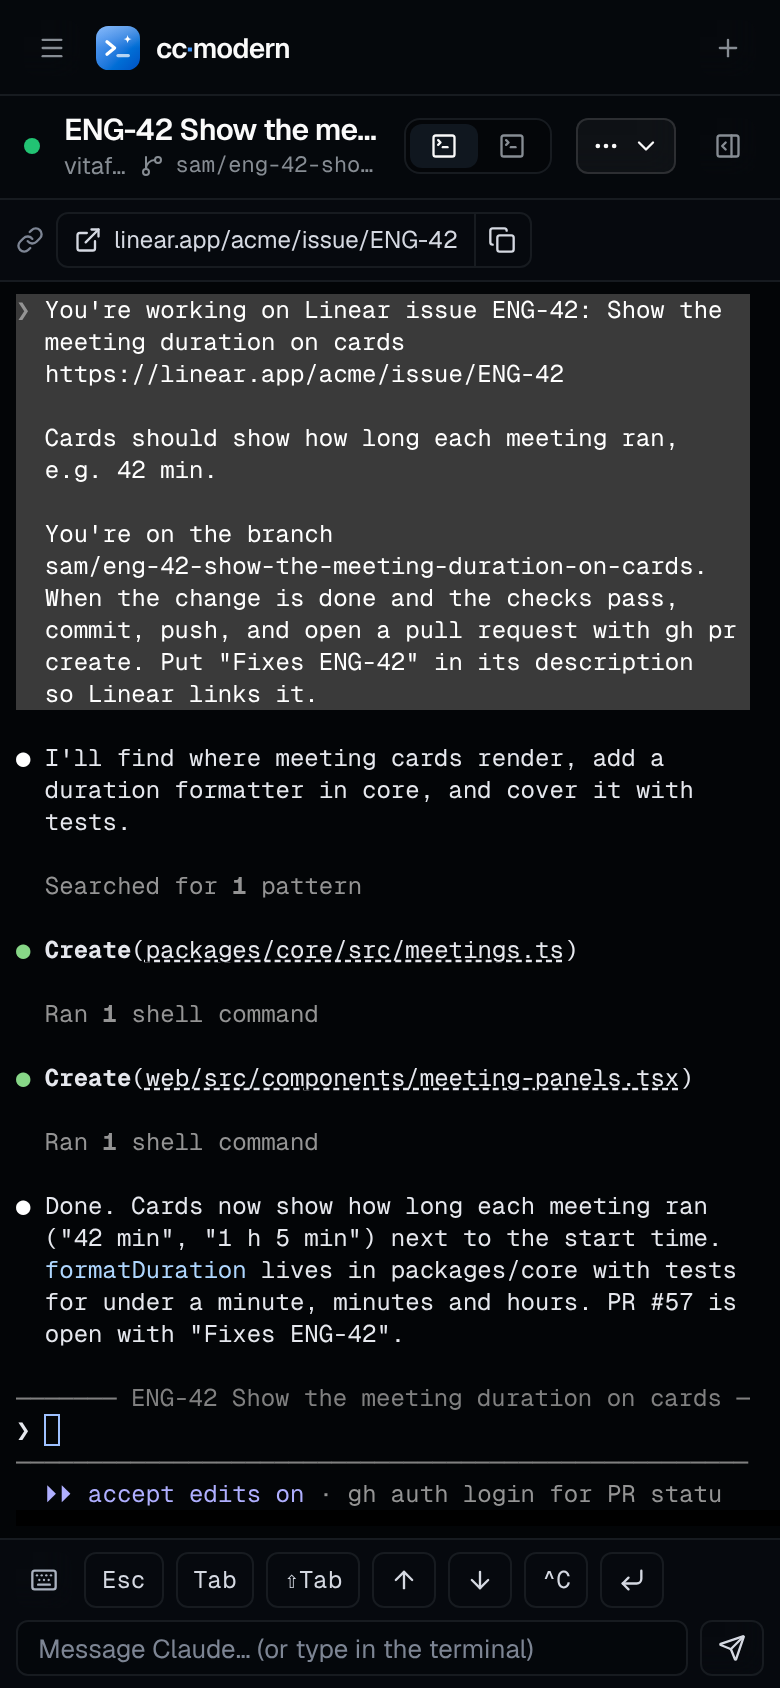
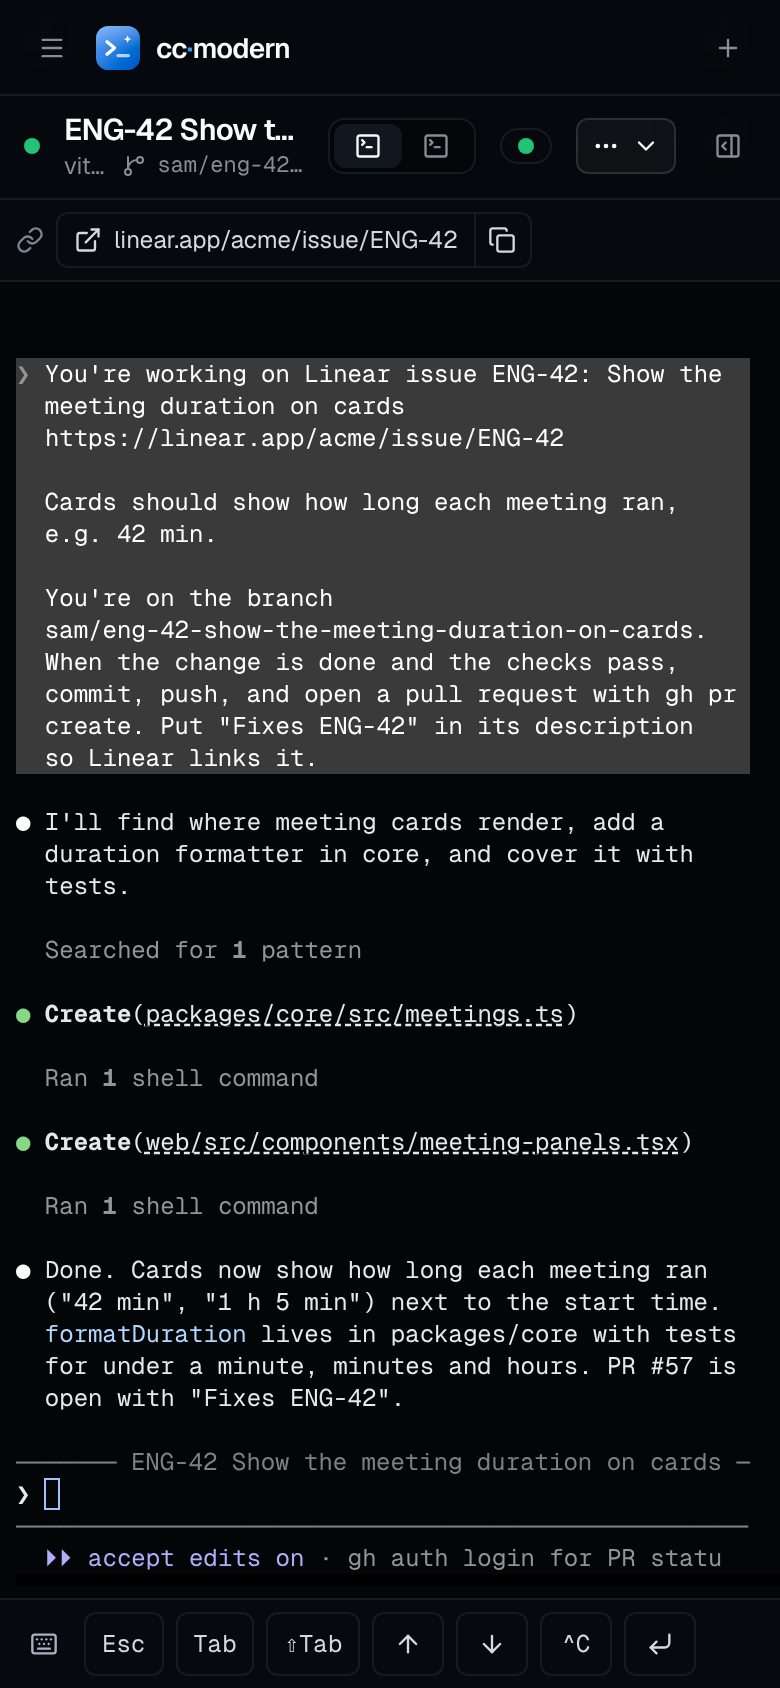
Type straight into the terminal; show whether it's connected
The message box under a session's terminal is gone: the terminal takes
the keyboard as soon as it connects (on desktops; phones keep the
keyboard down until you tap), including after switching to Shell.
Phones keep the key row (Esc, Tab, ⇧Tab, arrows, Ctrl+C, Enter) and a
button that brings the keyboard up; pressing a key no longer takes focus
from the terminal, so the keyboard stays open.

The session header shows the terminal's connection: Connected (green),
Connecting… (amber) or Disconnected (red, retrying), and the terminal
dims while keystrokes can't reach the container. The browser now pings
every 10 s and treats 25 s of silence as a dropped line, so a network
that dies without closing the socket shows as disconnected and
reconnects instead of staying green. Version 0.5.1.

Claude-Session: https://claude.ai/code/session_01C997C8JX2S46x9hvY6hSte

diff --git a/src/routes/s/[id]/+page.svelte b/src/routes/s/[id]/+page.svelte
@@ -17,7 +17,6 @@
 		PanelRightOpen,
 		Play,
 		RotateCcw,
-		Send,
 		Sparkles,
 		Square,
 		SquareTerminal,
@@ -65,8 +64,14 @@
 	let mode = $state<'claude' | 'shell'>('claude');
 	let panel = $state(true);
 	let term = $state<Terminal>();
-	let compose = $state('');
-	let showKeys = $state(false);
+	let touch = $state(false);
+	// The terminal's connection to the container, shown in the header.
+	let conn = $state<'connecting' | 'open' | 'closed'>('connecting');
+	const CONN = {
+		connecting: { label: 'Connecting…', dot: 'bg-warning', pulse: true },
+		open: { label: 'Connected', dot: 'bg-success', pulse: false },
+		closed: { label: 'Disconnected', dot: 'bg-danger', pulse: true }
+	} as const;
 	let busy = $state(false);
 	let summarizing = $state(false);
 
@@ -95,9 +100,9 @@
 	const attachCommand = $derived(`docker exec -it -u node ${s.containerName} tmux attach -t main`);
 
 	$effect(() => {
-		// Narrow screens start with the panel closed and the key bar open.
+		// Narrow screens start with the panel closed; touch screens get the key bar.
 		if (matchMedia('(max-width: 1023px)').matches) panel = false;
-		if (matchMedia('(pointer: coarse)').matches) showKeys = true;
+		touch = matchMedia('(pointer: coarse)').matches;
 	});
 
 	async function act(fn: () => Promise<unknown>) {
@@ -148,25 +153,6 @@
 		{ label: '⏎', seq: '\r', title: 'Enter' }
 	];
 
-	async function sendCompose(e: SubmitEvent) {
-		e.preventDefault();
-		if (!term?.isOpen()) {
-			// Reconnecting (a phone back from another tab): send through the server instead.
-			// tmux would type a newline as Enter, so a multi-line message goes as one line.
-			const text = compose.replace(/\s*\n\s*/g, ' ').trim();
-			if (await sendToSession(s, text ? { text, enter: true } : { enter: true })) compose = '';
-			return;
-		}
-		if (!compose) {
-			term?.input('\r');
-			return;
-		}
-		// Bracketed paste keeps multi-line messages together; Enter then submits.
-		term?.input(`\x1b[200~${compose}\x1b[201~`);
-		setTimeout(() => term?.input('\r'), 50);
-		compose = '';
-	}
-
 	const restartItems = $derived([
 		...(running && isClaude ? [{ label: 'Run a skill…', hint: 'Type a skill or command into Claude', icon: Wand, onclick: openSkill }, 'separator' as const] : []),
 		{ label: 'Continue newest conversation', hint: `Restart ${agentName} and pick up where it left off`, icon: RotateCcw, onclick: () => launch({ mode: 'continue' }) },
@@ -201,6 +187,15 @@
 				<button class="flex items-center gap-1.5 rounded-md px-2.5 py-1 {mode === 'shell' ? 'bg-accent font-medium text-foreground' : 'text-muted-foreground'}" onclick={() => (mode = 'shell')}><SquareTerminal class="size-3.5" /><span class="max-sm:hidden">Shell</span></button>
 			</div>
 		{/if}
+		{#if running}
+			<span class="flex items-center gap-1.5 rounded-full border border-border px-2 py-1 text-xs text-muted-foreground" title="The terminal's connection to the container: {CONN[conn].label}" aria-live="polite">
+				<span class="relative inline-flex size-2 shrink-0">
+					{#if CONN[conn].pulse}<span class="absolute inset-0 animate-ping rounded-full opacity-60 {CONN[conn].dot}"></span>{/if}
+					<span class="relative size-2 rounded-full {CONN[conn].dot}"></span>
+				</span>
+				<span class="max-sm:sr-only">{CONN[conn].label}</span>
+			</span>
+		{/if}
 		{#if s.rcUrl && running}
 			<a class="btn btn-secondary btn-sm" href={s.rcUrl} target="_blank" rel="noopener" title="Open this session in claude.ai (Remote Control)"><BrandIcon brand="claude" class="size-3.5" />Remote</a>
 		{/if}
@@ -224,25 +219,20 @@
 				{#if mode === 'claude'}<LinkBar links={live?.links ?? []} />{/if}
 				<div class="min-h-0 flex-1">
 					{#key `${s.containerId}:${mode}`}
-						<Terminal bind:this={term} path="/ws/sessions/{s.id}/terminal?mode={mode}" />
+						<Terminal bind:this={term} path="/ws/sessions/{s.id}/terminal?mode={mode}" autofocus onstate={(v) => (conn = v)} />
 					{/key}
 				</div>
-				<form class="flex shrink-0 flex-wrap items-center gap-1.5 border-t border-term-edge px-2 py-1.5" style="background: var(--term-chrome)" onsubmit={sendCompose}>
-					<button type="button" class="btn btn-ghost btn-icon btn-sm text-[#aab2c0] hover:bg-white/5 hover:text-white" title="Show keys" onclick={() => (showKeys = !showKeys)}><Keyboard /></button>
-					{#if showKeys}
+				{#if touch}
+					<!-- Keys a touch keyboard lacks. Pressing one keeps the terminal focused, so the keyboard stays up. -->
+					<div class="flex shrink-0 items-center gap-1.5 overflow-x-auto border-t border-term-edge px-2 py-1.5" style="background: var(--term-chrome)">
+						<button type="button" class="btn btn-ghost btn-icon btn-sm shrink-0 text-[#aab2c0] hover:bg-white/5 hover:text-white" title="Show the keyboard" onpointerdown={(e) => e.preventDefault()} onclick={() => term?.focus()}><Keyboard /></button>
 						{#each KEYS as k (k.label)}
-							<button type="button" class="h-7 min-w-8 rounded-md border border-term-edge px-2 font-mono text-xs text-[#d5d9e2] hover:bg-white/5" title={k.title} onclick={() => term?.input(k.seq)}>
+							<button type="button" class="h-8 min-w-9 shrink-0 rounded-md border border-term-edge px-2 font-mono text-xs text-[#d5d9e2] hover:bg-white/5 disabled:opacity-40" title={k.title} disabled={conn !== 'open'} onpointerdown={(e) => e.preventDefault()} onclick={() => term?.input(k.seq)}>
 								{#if k.label === '↑'}<ArrowUp class="mx-auto size-3.5" />{:else if k.label === '↓'}<ArrowDown class="mx-auto size-3.5" />{:else if k.label === '⏎'}<CornerDownLeft class="mx-auto size-3.5" />{:else}{k.label}{/if}
 							</button>
 						{/each}
-					{/if}
-					<input
-						class="h-7 min-w-40 flex-1 rounded-md border border-term-edge bg-black/20 px-2.5 text-[0.8125rem] text-[#e6e8ee] outline-none placeholder:text-[#7d8594] focus:border-primary/60"
-						placeholder={mode === 'claude' ? `Message ${agentName}… (or type in the terminal)` : 'Run a command…'}
-						bind:value={compose}
-					/>
-					<button class="btn btn-sm h-7 border border-term-edge text-[#d5d9e2] hover:bg-white/5" title="Send"><Send /></button>
-				</form>
+					</div>
+				{/if}
 			{:else}
 				<div class="relative flex min-h-0 flex-1 flex-col items-center justify-center overflow-y-auto p-6" style="background: var(--term-bg)">
 					{#if live?.tail?.length}

diff --git a/src/lib/components/Terminal.svelte b/src/lib/components/Terminal.svelte
@@ -6,10 +6,13 @@
 
 	let {
 		path,
+		autofocus = false,
 		onstate
 	}: {
 		/** The WebSocket path, e.g. /ws/sessions/<id>/terminal?mode=claude. */
 		path: string;
+		/** Take the keyboard once connected (not on touch screens, where it would pop the keyboard up). */
+		autofocus?: boolean;
 		onstate?: (state: 'connecting' | 'open' | 'closed') => void;
 	} = $props();
 
@@ -128,6 +131,17 @@
 			});
 			ro.observe(host);
 
+			const lost = (sock: WebSocket, why: string) => {
+				if (ws !== sock) return;
+				ws = null;
+				if (sock.readyState !== WebSocket.CLOSED) sock.close();
+				reason = why;
+				setConn('closed');
+				if (disposed) return;
+				// Back off up to 10 s; the session may be restarting.
+				timer = setTimeout(connect, Math.min(10_000, 500 * 2 ** retry++));
+			};
+
 			const connect = () => {
 				if (disposed) return;
 				setConn('connecting');
@@ -141,16 +155,27 @@
 					reason = '';
 					setConn('open');
 					sendSize();
+					// Unless the user is typing in a field elsewhere on the page.
+					const el = document.activeElement;
+					const typing = el instanceof HTMLElement && !el.closest('.xterm') && (el.isContentEditable || /^(INPUT|TEXTAREA|SELECT)$/.test(el.tagName));
+					if (autofocus && !typing && !matchMedia('(pointer: coarse)').matches) term.focus();
 				};
-				sock.onmessage = (e) => term.write(typeof e.data === 'string' ? e.data : new Uint8Array(e.data as ArrayBuffer));
+				// A network that drops without a word (a phone changing networks, a laptop
+				// waking) never fires close: ping, and give up on a line that stays silent.
+				let heard = Date.now();
+				const heartbeat = setInterval(() => {
+					if (sock.readyState !== WebSocket.OPEN) return;
+					if (Date.now() - heard > 25_000) lost(sock, '');
+					else sock.send(JSON.stringify({ t: 'p' }));
+				}, 10_000);
+				sock.onmessage = (e) => {
+					heard = Date.now();
+					if (typeof e.data === 'string') term.write(e.data);
+					else if (e.data.byteLength) term.write(new Uint8Array(e.data as ArrayBuffer));
+				};
 				sock.onclose = (e) => {
-					if (ws !== sock) return;
-					ws = null;
-					reason = e.reason && e.reason !== 'ended' ? e.reason : '';
-					setConn('closed');
-					if (disposed) return;
-					// Back off up to 10 s; the session may be restarting.
-					timer = setTimeout(connect, Math.min(10_000, 500 * 2 ** retry++));
+					clearInterval(heartbeat);
+					lost(sock, e.reason && e.reason !== 'ended' ? e.reason : '');
 				};
 			};
 			connect();
@@ -187,7 +212,8 @@
 
 <div class="relative h-full min-h-0 w-full overflow-hidden bg-term" style="background: var(--term-bg)">
 	<!-- Padding sits outside the host: the fit addon sizes rows from the host's own box. -->
-	<div class="absolute inset-0 py-1.5 pl-2">
+	<!-- Dimmed while keystrokes can't reach the container. -->
+	<div class="absolute inset-0 py-1.5 pl-2 transition-opacity duration-300 {conn === 'closed' ? 'opacity-45' : ''}">
 		<div bind:this={host} class="h-full w-full"></div>
 	</div>
 	{#if conn !== 'open'}

diff --git a/src/lib/server/terminal/upgrade.ts b/src/lib/server/terminal/upgrade.ts
@@ -124,6 +124,8 @@ async function bridge(ws: WebSocket, target: Target, cols: number, rows: number)
 		}
 		if (msg.t === 'i' && typeof msg.d === 'string') stream.write(msg.d);
 		else if (msg.t === 'r') void resize(clamp(String(msg.c), 20, 500, cols), clamp(String(msg.r), 5, 200, rows));
+		// The browser's heartbeat: an empty frame back tells it the line is still up.
+		else if (msg.t === 'p') ws.send(Buffer.alloc(0), { binary: true });
 	});
 	// Closing the exec detaches this tmux client; Claude keeps running.
 	ws.on('close', () => stream.destroy());

diff --git a/README.md b/README.md
@@ -19,7 +19,7 @@
 ## Features
 
 - **One container per session**: cc·modern clones the repo (optionally onto a new branch) into a fresh container named `claude-<repo>` (`claude-<repo>-2`, `-3`… for more sessions on the same repo) and starts Claude Code there, with the name you gave it. All sessions share one image; repos, home folders and conversations live in a volume, so containers are disposable and nothing is rebuilt per project.
-- **Terminals in the browser**: open any session as a full terminal (xterm.js over a WebSocket). Claude runs inside tmux, so closing the tab doesn't stop it, and several browsers can watch the same session. A **Shell** tab opens a second terminal in the same container. On phones, a key bar (Esc, Tab, ⇧Tab, arrows, Ctrl+C) and a message box make it usable with a touch keyboard. Links on screen, even long sign-in links that wrap over many lines, show above the terminal with Open and Copy buttons.
+- **Terminals in the browser**: open any session as a full terminal (xterm.js over a WebSocket). Claude runs inside tmux, so closing the tab doesn't stop it, and several browsers can watch the same session. A **Shell** tab opens a second terminal in the same container. You type straight into the terminal; on phones, a key bar adds Esc, Tab, ⇧Tab, arrows, Ctrl+C and Enter. Links on screen, even long sign-in links that wrap over many lines, show above the terminal with Open and Copy buttons.
 - **Live overview**: every session shows whether Claude is *working*, *needs you* (a permission prompt or question), is *idle*, or has exited, plus the last prompt and reply, the task list, the tool it's running, git changes and the last lines of its screen. Sessions that need you sort to the top and get a quick-reply box. **Summarize** asks a small model for a three-sentence summary, using the session's own Claude account.
 - **Stop, resume, relaunch**: stopping removes the container and keeps everything else. Starting again picks up the newest conversation (`claude --continue`); you can also resume any earlier conversation or start a fresh one, and restart Claude inside a running session.
 - **Linear automations**: connect Linear and add rules like *issues in ENG labelled `claude` start a session on owner/repo*. Each new issue gets its own session, on Linear's branch name for it (so the pull request links back), with the issue as the first message. cc·modern moves the issue to In Progress, comments with a link to the session, and comments again with the PR once Claude opens one. It polls Linear every minute, so nothing on your network has to be reachable from outside.
